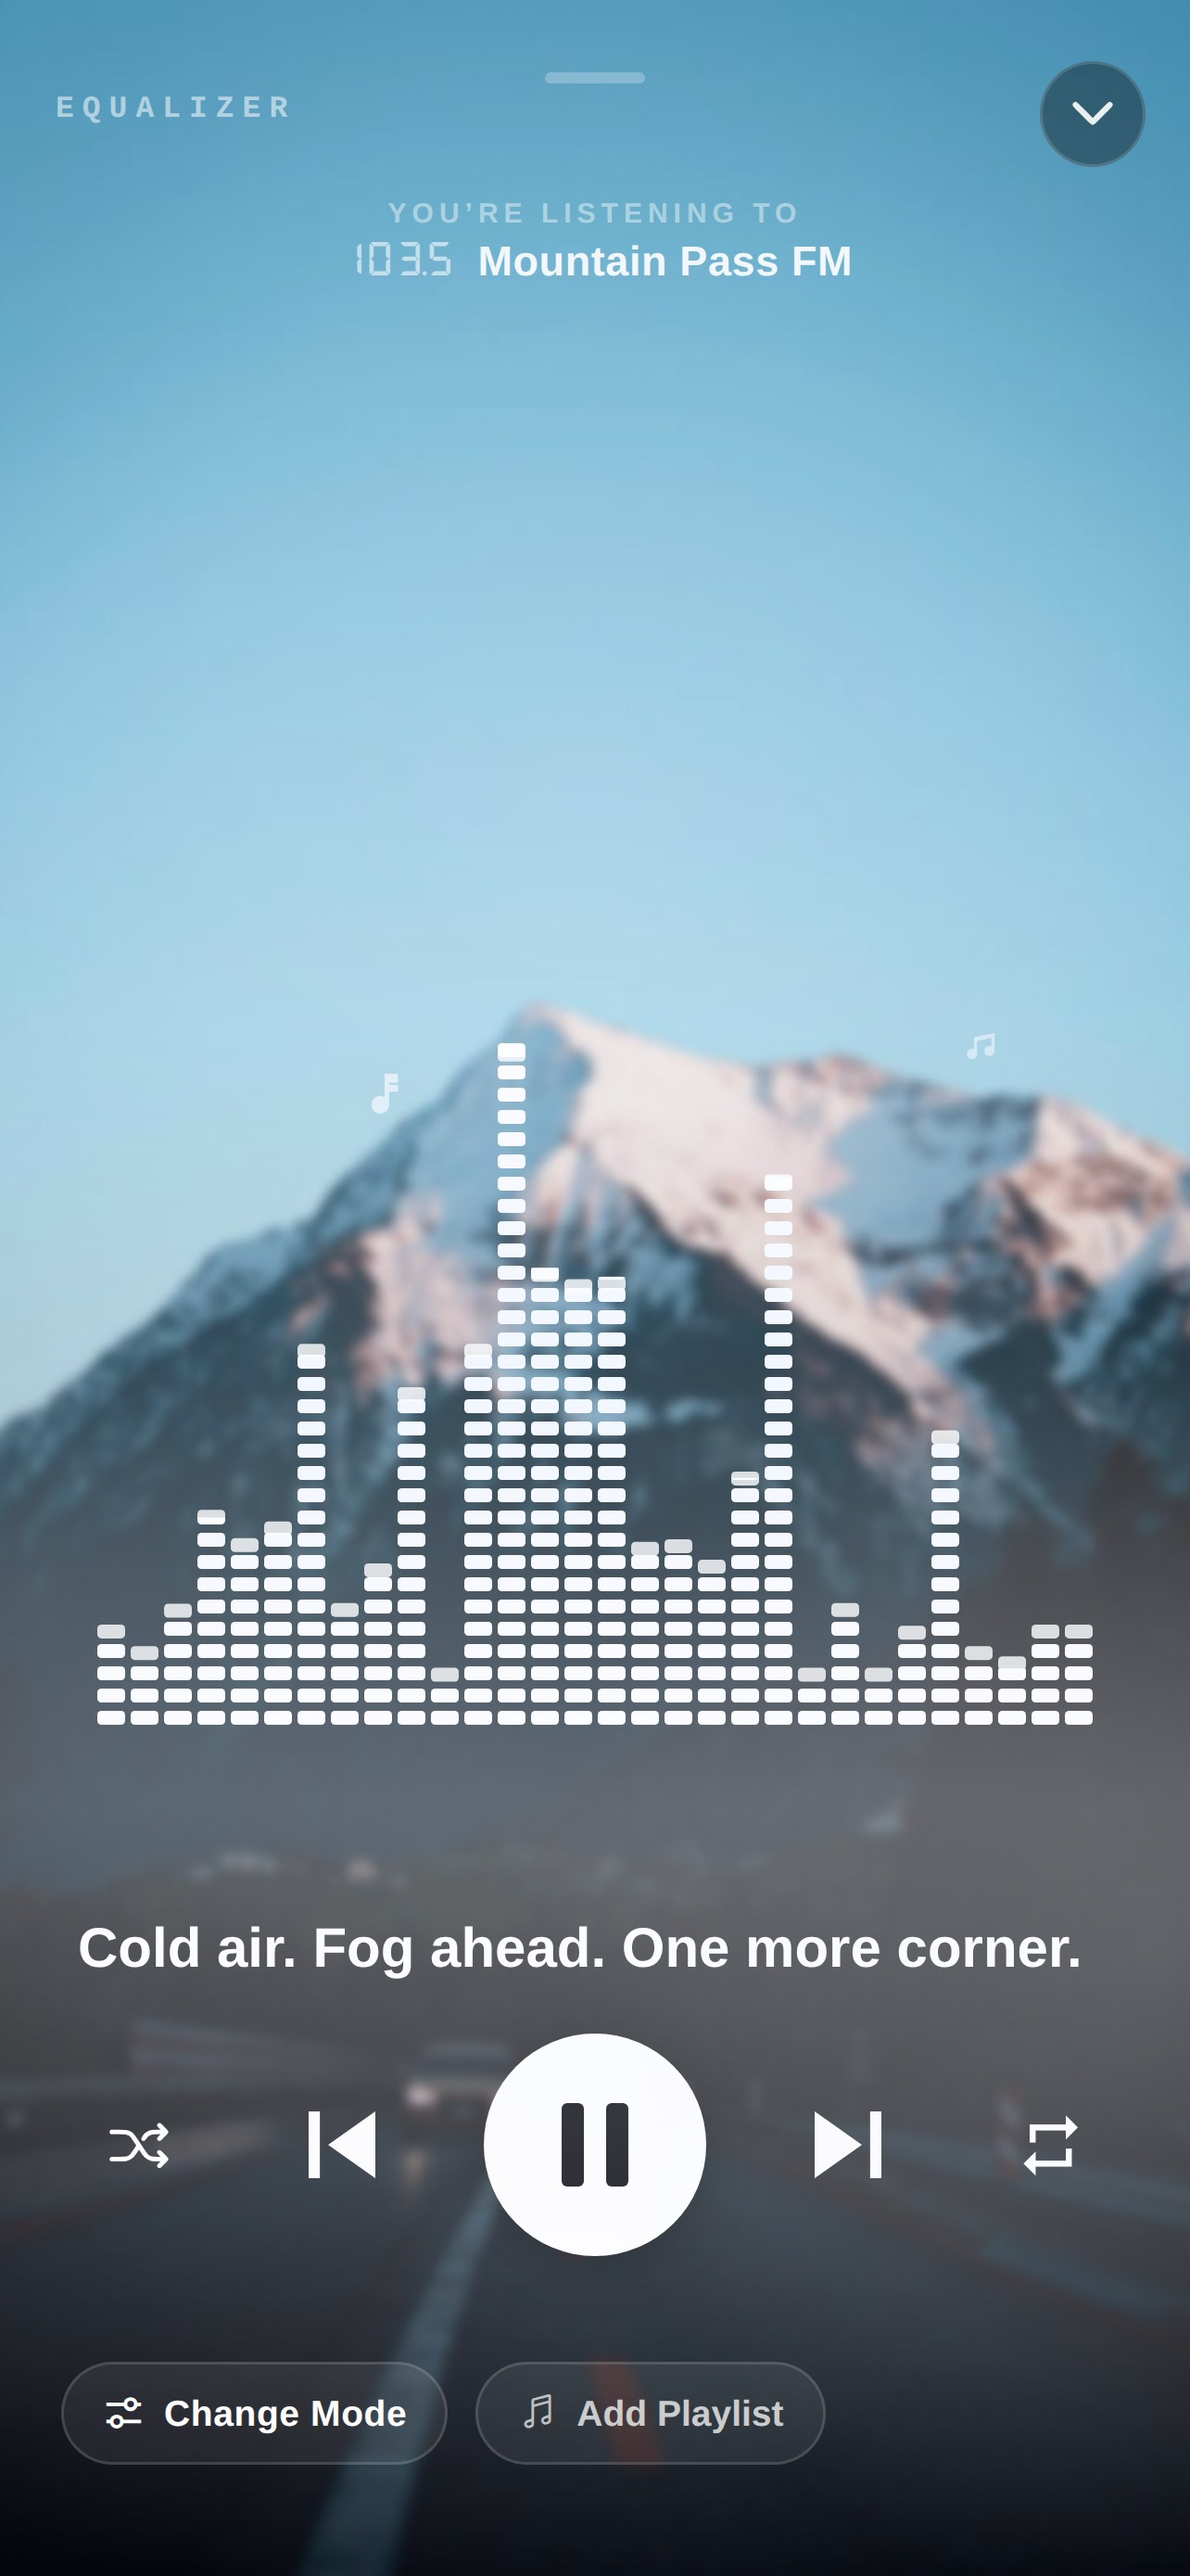
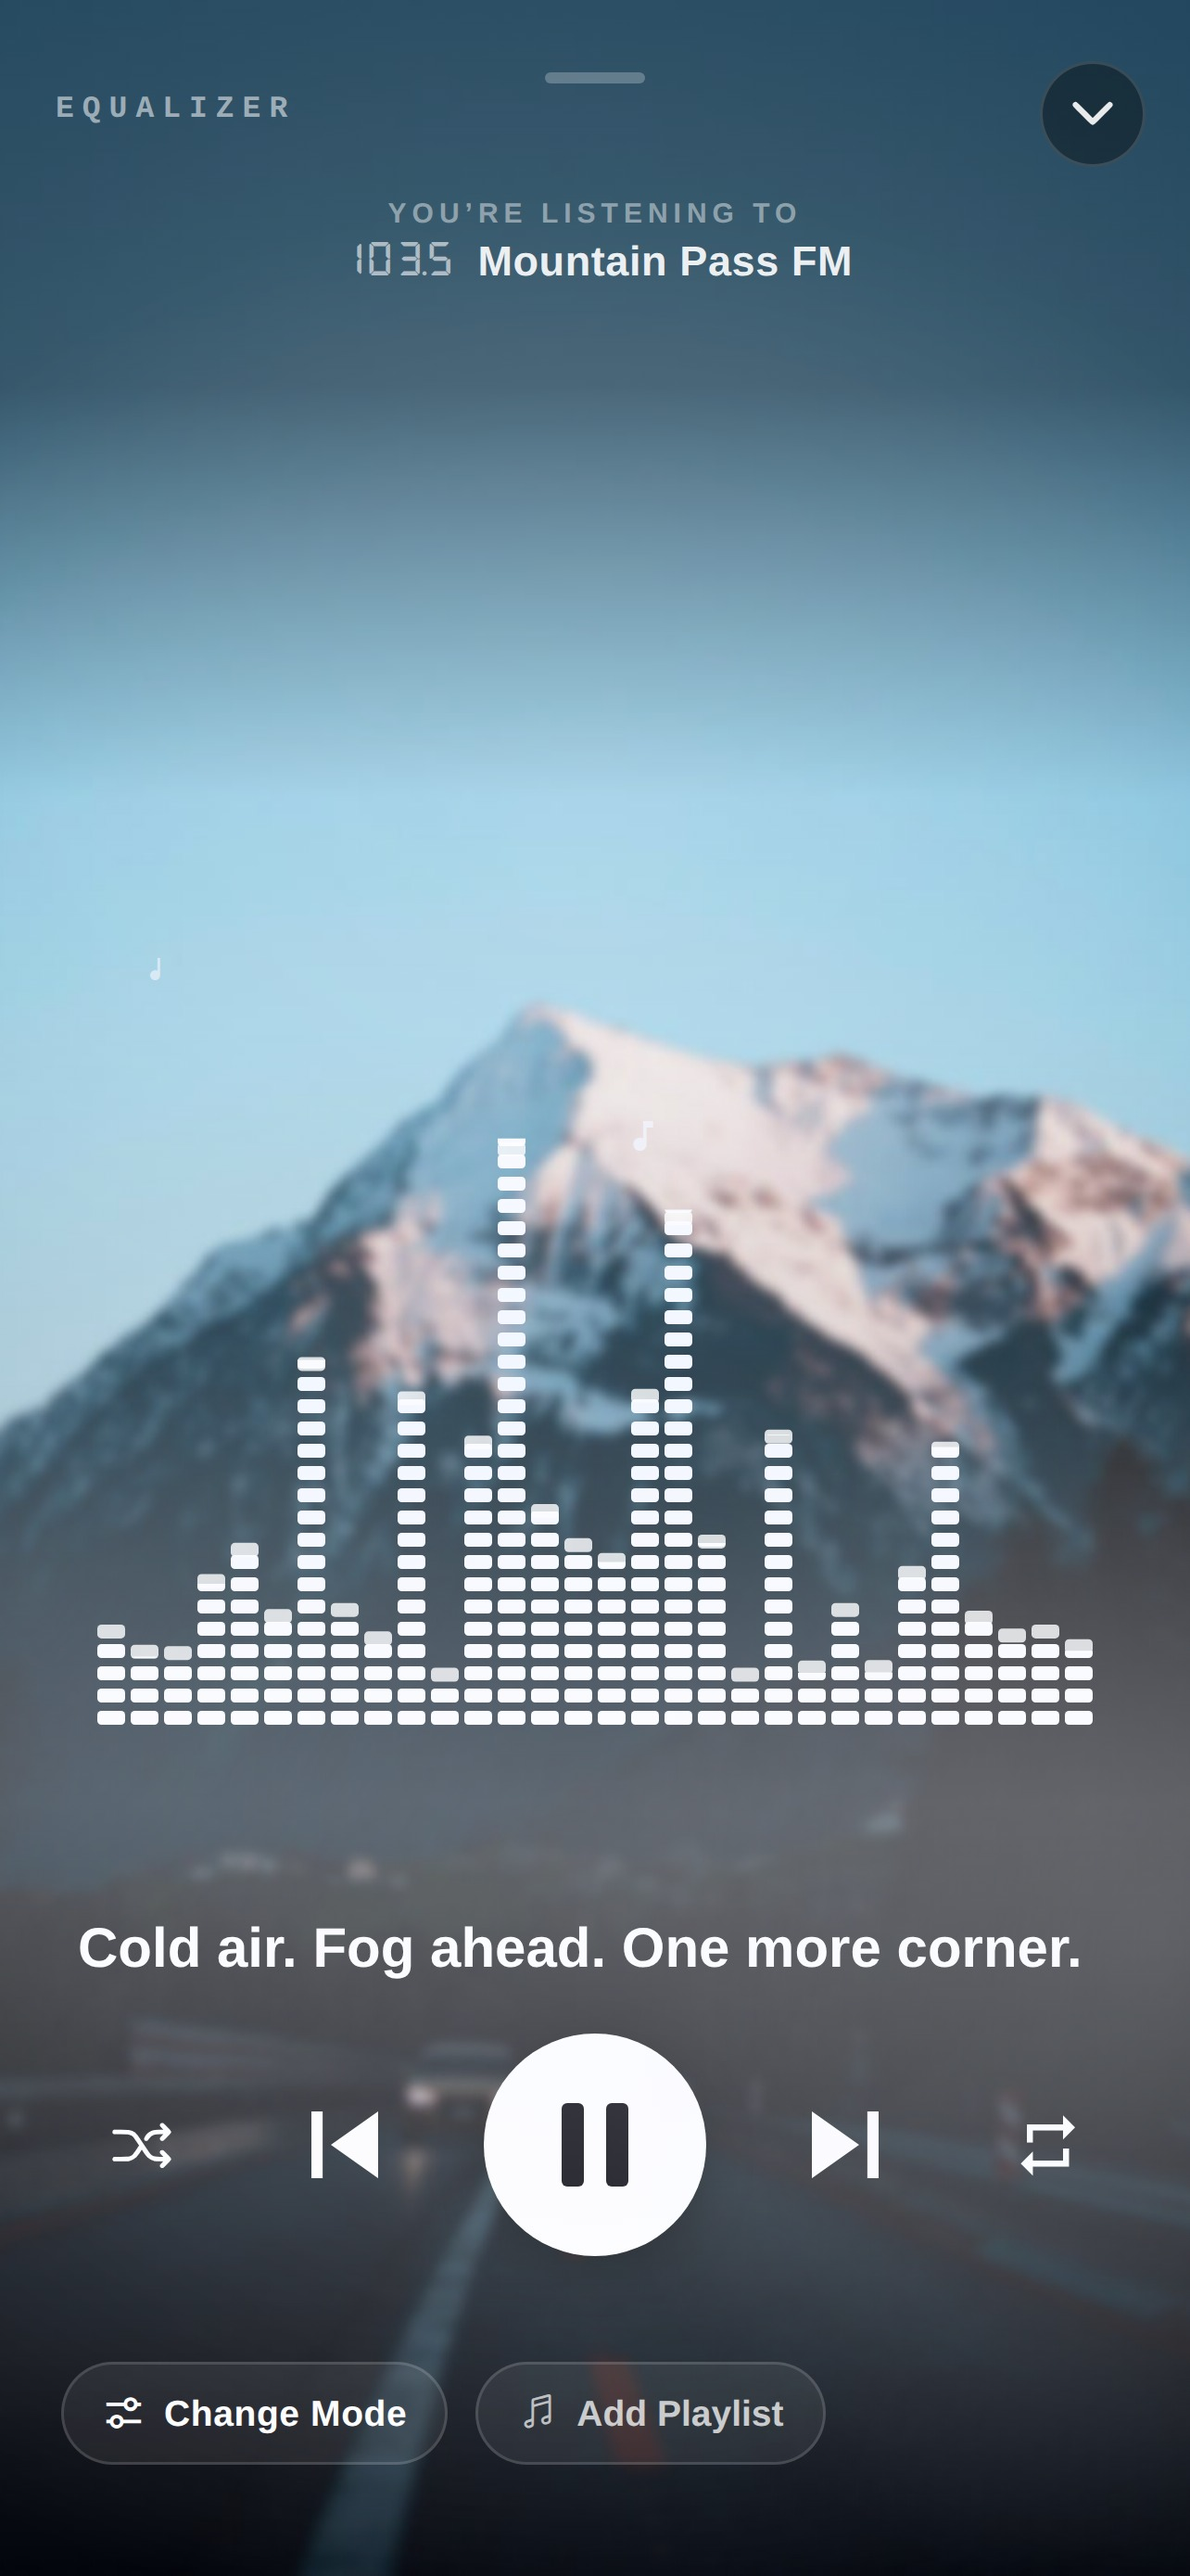
Three stations had an unreadable header, and the reshoot is what found it
The App Store set was three weeks old, so it was reshot from the current
build. Comparing the new Cassette shot against the old one showed the
station's name ghosting into a white sky — and the measurement was worse
than it looked: 1.39:1, where normal text needs 4.5:1.

MEASURED ACROSS ALL TEN BACKDROPS RATHER THAN ON THE ONE THAT SHOWED IT,
which is what turned a screenshot into a bug report:

  after-midnight 20.8   downtown 19.6   night-run 18.9   rain-drive 17.4
  tunnel 14.2           cars-coffee 8.7   sunset 4.2
  coastal 2.7           mountain 2.7      daylight 1.9

"THE TEN BUILT-INS ARE SHOT DARK" WAS TRUE OF SEVEN OF THEM. That sentence
is in ModeScrim's own note and in the 02.09 log, and it is exactly what
justified giving the user-photo ramp a real header band while leaving the
built-in ramp at a top stop of 0.10. Three stations are not shot dark, and
two of the three — Coastal at 2.45:1 and Mountain Pass at 2.23:1 — have read
that way on real screenshots since this component was written. Confirmed
against the old set: unchanged, so long-standing rather than a regression.

CASSETTE ON DAYLIGHT IS THE ONE THAT DID REGRESS, AND THIS FILE DID IT.
02.09 removed Cassette's private top vignette on the reasoning that
"ModeScrim covers that band for every mode now" — true of the user-photo
ramp, false of the built-in one. Same shot before and after: 3.82 -> 1.39.
The vignette had been the only thing holding that header up, in the one mode
that happened to have one.
[…]

diff --git a/src/components/ModeScrim.tsx b/src/components/ModeScrim.tsx
@@ -34,15 +34,56 @@ import type { Station } from '@/constants/stations';
  * where the type is. Those pull opposite ways, which is exactly why both
  * halves are asserted rather than trusted.
  */
-/** Built-in stations: the values approved on 03.08. Do not raise these. */
+/**
+ * Built-in stations. The picture and the foot are the values approved on
+ * 03.08 — DO NOT RAISE THOSE. The header band is new (08.09) and the reason
+ * is measured below.
+ *
+ * "THE TEN BUILT-INS ARE SHOT DARK" WAS TRUE OF SEVEN OF THEM. That sentence
+ * is in this file's own note above and in the 02.09 log, and it is what
+ * justified leaving this ramp at a top stop of 0.10 while the user-photo ramp
+ * got a real header band. Measured across all ten backdrops at the header
+ * band, white type sat at:
+ *
+ *     after-midnight 20.8   downtown 19.6   night-run 18.9   rain-drive 17.4
+ *     tunnel 14.2           cars-coffee 8.7   sunset 4.2
+ *     coastal 2.7           mountain 2.7      daylight 1.9
+ *
+ * Three fail and one is marginal. Confirmed on real screenshots rather than
+ * on the assets alone: CD on Coastal measured 2.45:1 and Equalizer on
+ * Mountain Pass 2.23:1 — and both have read that way since this component
+ * was written, so it is long-standing rather than a regression.
+ *
+ * CASSETTE ON DAYLIGHT IS THE ONE THAT DID REGRESS, and it was this file that
+ * did it. 02.09 removed Cassette's private top vignette on the reasoning that
+ * "ModeScrim covers that band for every mode now" — true of the user-photo
+ * ramp, false of this one. Measured on the same shot before and after:
+ * 3.82:1 -> 1.39:1. The vignette had been the only thing holding that header
+ * up, in the one mode that had one.
+ *
+ * SIZED AGAINST THE BRIGHTEST PART OF THE BAND, not its average: Daylight
+ * needs 0.525 there, and a pure white frame needs 0.5405 (see the note on
+ * USER_PHOTO). 0.55 covers both. It costs the seven dark stations nothing
+ * measurable — after-midnight moves 20.82 -> 20.75 — and it lands on the top
+ * 15% of the frame, which carries the mode label and the station's name and
+ * none of the object.
+ */
 const BUILT_IN = [
-  'rgba(2,2,12,0.10)',
+  'rgba(2,2,12,0.55)',
+  'rgba(2,2,12,0.54)',
+  'rgba(2,2,12,0.06)',
   'rgba(2,2,12,0.06)',
   'rgba(2,2,12,0.18)',
   'rgba(2,2,12,0.32)',
   'rgba(2,2,12,0.46)',
 ] as const;
-const BUILT_IN_AT = [0, 0.4, 0.65, 0.85, 1] as const;
+/** The header plateau ends at 0.15 and is back to the approved openness by
+ *  0.31, which is before the picture band opens at 0.34. The 0.15-0.31
+ *  transition is the same gradient the user-photo ramp uses (0.16-0.32) and
+ *  is there for the same reason: a scrim that stops where the words stop is a
+ *  hard edge across the screen, which is the one thing every light and shade
+ *  layer in this app has eventually been reported for. */
+const BUILT_IN_AT = [0, 0.15, 0.31, 0.4, 0.65, 0.85, 1] as const;
 
 /**
  * A photo of the user's own: the picture opens right up in the middle, and the
@@ -66,9 +107,23 @@ const BUILT_IN_AT = [0, 0.4, 0.65, 0.85, 1] as const;
  * 18-20:1 there; a bright picture is something only a user can supply.
  *
  * SIZED AGAINST THE WORST PHOTO THERE IS, not against the one that was
- * reported: a pure white frame needs 0.467 behind white type to clear 4.5:1,
+ * reported: a pure white frame needs 0.5405 behind white type to clear 4.5:1,
  * so both bands sit above that. Checked across five extremes — a lime panel,
  * pure white, bright sky, sand, snow glare.
+ *
+ * THAT NUMBER READ 0.467 FROM 02.09 TO 08.09, AND IT WAS THE RIGHT QUANTITY
+ * USED AS THE WRONG ONE. 4.5:1 against white type needs a background at
+ * relative luminance 0.1833, which is sRGB 0.465 — and 0.465 is what got
+ * written down as the ALPHA. It is not: a scrim of alpha `a` over white
+ * leaves 255(1-a) + 5a, so reaching sRGB 0.465 takes a = 0.5405. At 0.467 the
+ * real ratio is 3.49:1. So both this ramp and the test that guards it were
+ * certifying 3.49:1 while the comment claimed 4.5:1, and the stops have been
+ * lifted to match what the arithmetic actually asks for.
+ *
+ * THE TEST DID NOT CATCH IT BECAUSE THE TEST WAS BUILT ON THE SAME NUMBER —
+ * which is this project's most-repeated lesson wearing new clothes. A check
+ * fires correctly against its threshold and still proves nothing when the
+ * threshold is the thing that is wrong.
  *
  * THE SHADING BELOW AND ABOVE IS WHAT BUYS THE OPENNESS BETWEEN, so they move
  * together or not at all. Raising the middle stops to "brighten it" without
@@ -76,12 +131,12 @@ const BUILT_IN_AT = [0, 0.4, 0.65, 0.85, 1] as const;
  * fault this shape was built to fix.
  */
 const USER_PHOTO = [
-  'rgba(2,2,12,0.52)',
-  'rgba(2,2,12,0.50)',
+  'rgba(2,2,12,0.57)',
+  'rgba(2,2,12,0.55)',
   'rgba(2,2,12,0.03)',
   'rgba(2,2,12,0.08)',
-  'rgba(2,2,12,0.50)',
-  'rgba(2,2,12,0.58)',
+  'rgba(2,2,12,0.55)',
+  'rgba(2,2,12,0.60)',
 ] as const;
 const USER_PHOTO_AT = [0, 0.16, 0.32, 0.58, 0.72, 1] as const;
 
